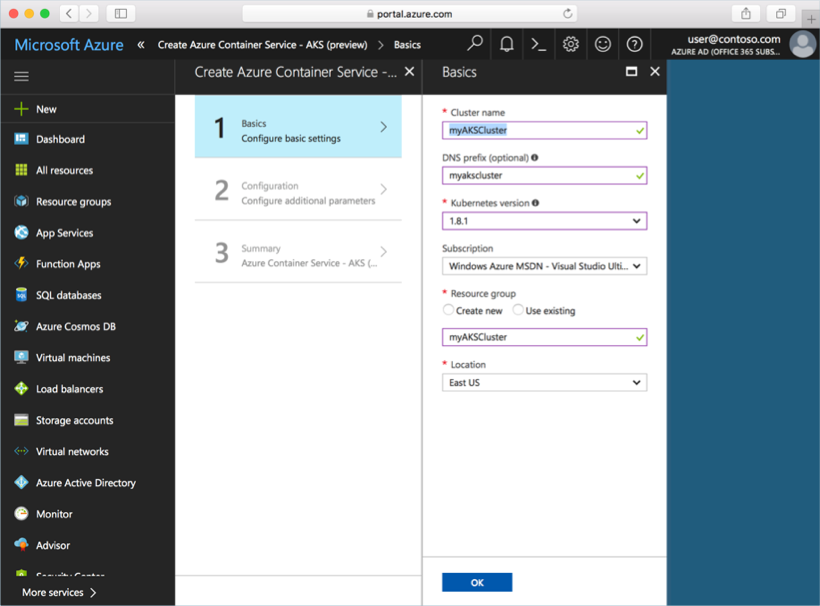
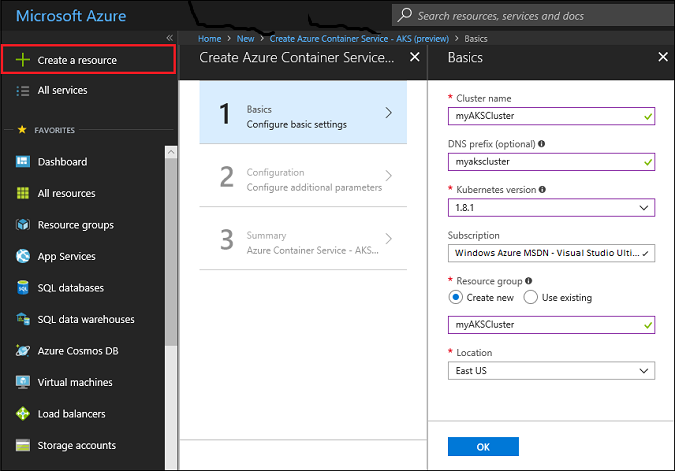
updated files to change New to Create a resource

diff --git a/articles/aks/kubernetes-walkthrough-portal.md b/articles/aks/kubernetes-walkthrough-portal.md
@@ -48,7 +48,7 @@ Click **Save**, and take note of the password value. The password is needed when
 
 ## Create AKS cluster
 
-Select **New** > **Containers** > **Azure Container Service - AKS (preview)**.
+Select **Create a resource** > **Containers** > **Azure Container Service - AKS (preview)**.
 
 Provide a cluster name, DNS prefix, resource group name, location, and Kubernetes version for the cluster. Take note of the cluster name and resource group name, these are needed when connecting to the cluster.
 
